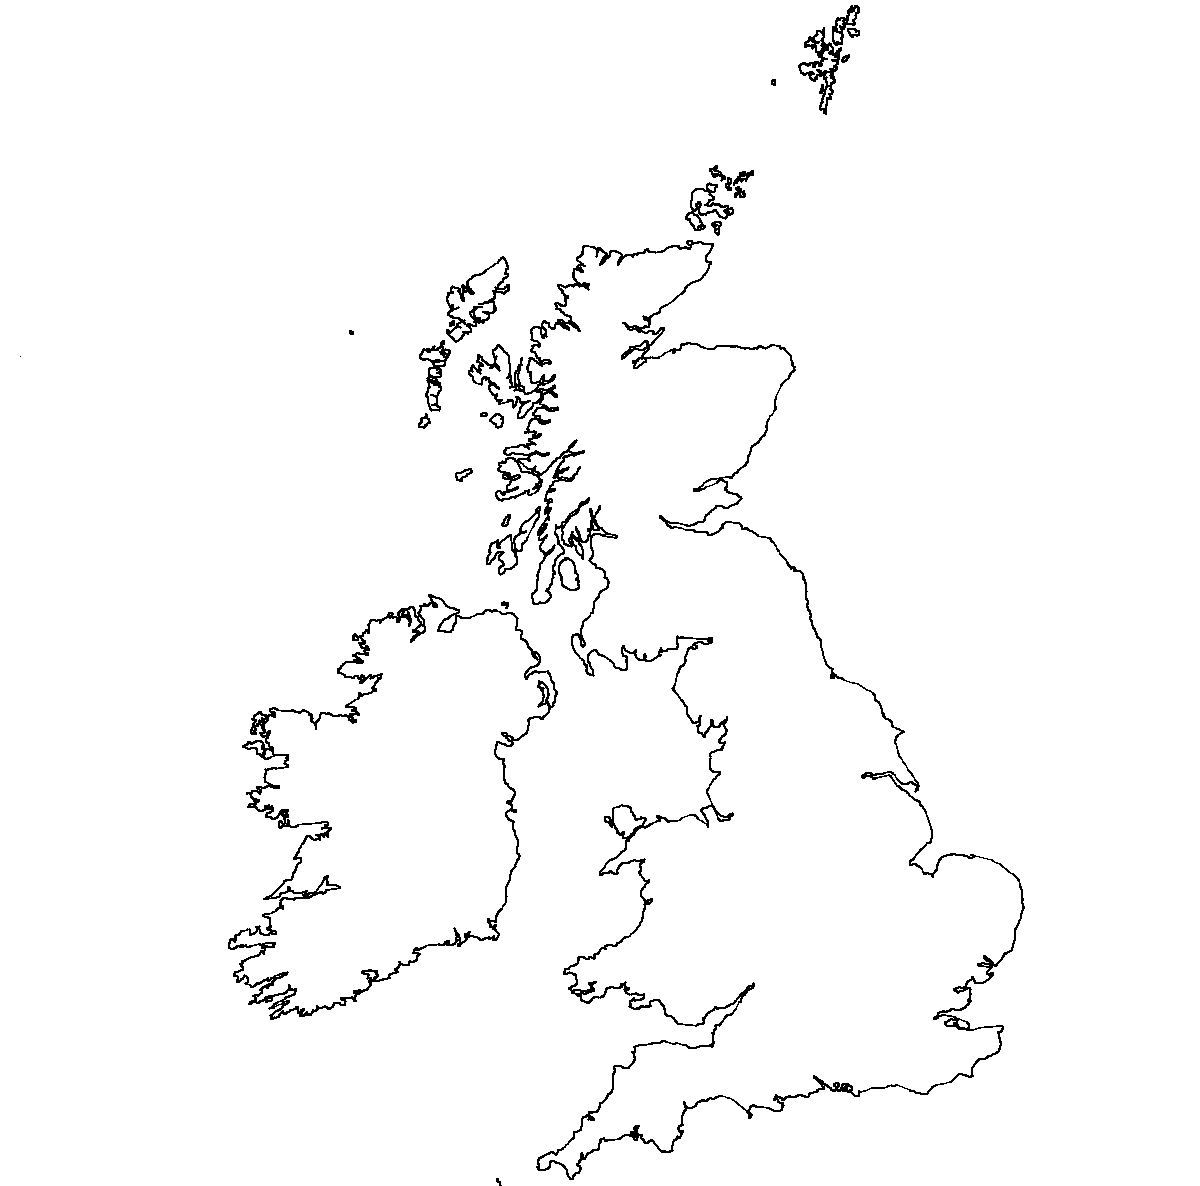
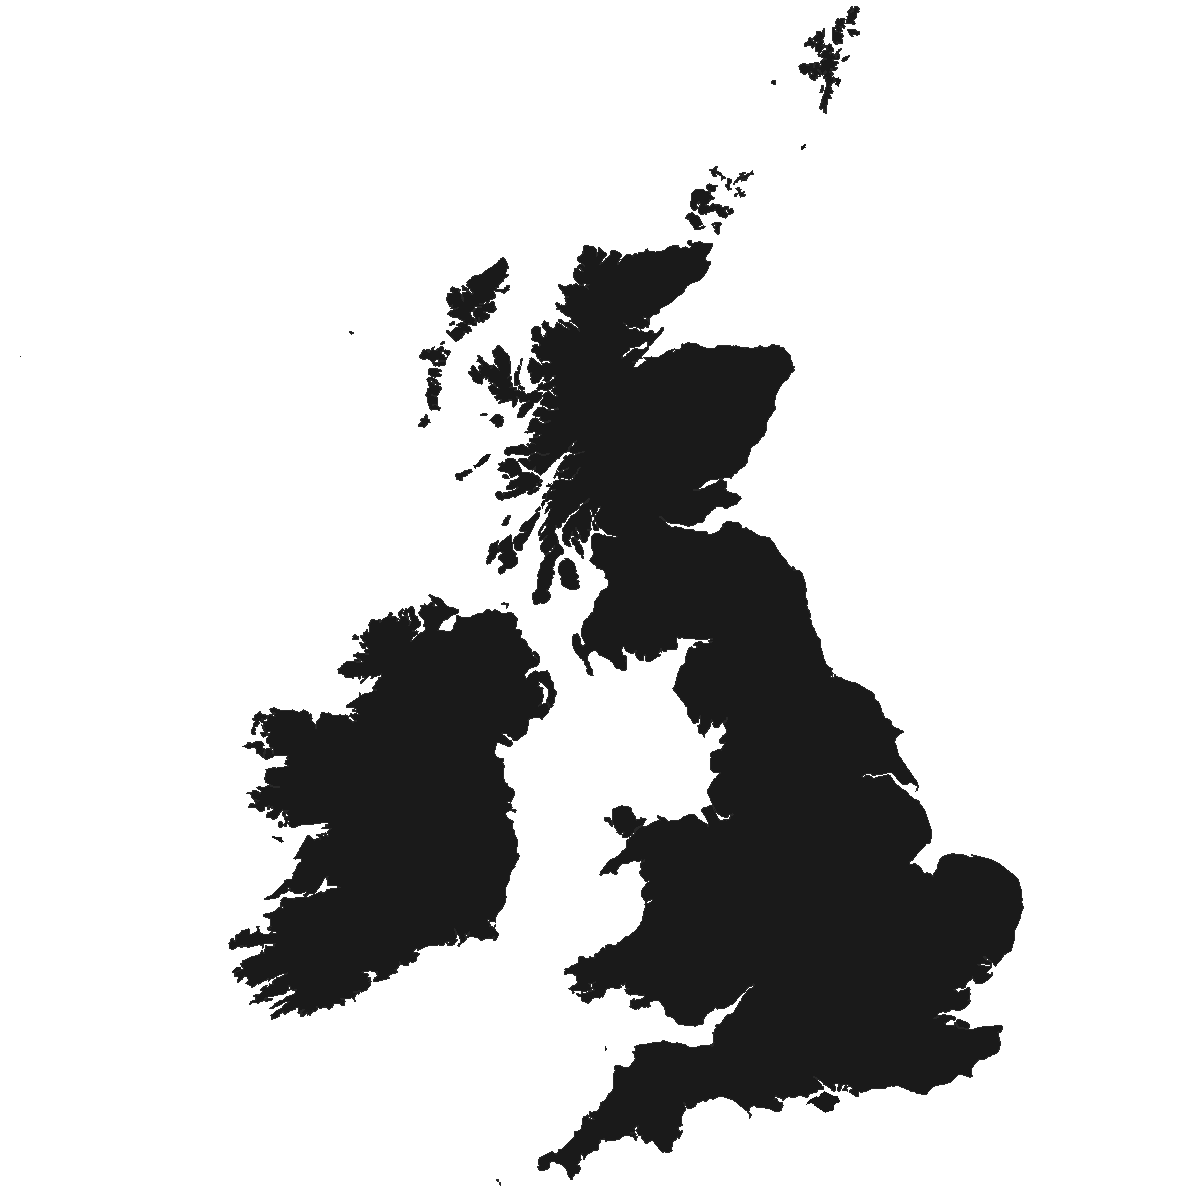
feat(mapgen): transparent sea + 10% grey land; keep GBR+IRL only; regenerate stretched53 assets

Changed region(s): [[0.185, 0.1248, 0.8633, 0.9983], [0.6475, 0.0, 0.74, 0.0936]]

diff --git a/scripts/make_wgs84_ukmap.py b/scripts/make_wgs84_ukmap.py
@@ -175,10 +175,18 @@ def make_affine(
 
 
 def render(
-    lines: List[List[Tuple[float, float]]], A: np.ndarray, w: int, h: int
+    lines: List[List[Tuple[float, float]]],
+    country_polys: List[List[List[Tuple[float, float]]]],
+    A: np.ndarray,
+    w: int,
+    h: int,
 ) -> Image.Image:
-    im = Image.new("RGB", (w, h), color=(255, 255, 255))
-    draw = ImageDraw.Draw(im)
+    # Transparent background RGBA
+    base = Image.new("RGBA", (w, h), color=(0, 0, 0, 0))
+
+    # Build land mask from country polygons (GBR + IRL)
+    mask = Image.new("L", (w, h), color=0)
+    mdraw = ImageDraw.Draw(mask)
 
     def project(p: Tuple[float, float]) -> Tuple[int, int]:
         lon, lat = p
@@ -186,12 +194,31 @@ def render(
         y = A[1, 0] * lon + A[1, 1] * lat + A[1, 2]
         return int(round(x)), int(round(y))
 
-    for seg in lines:
-        if len(seg) < 2:
+    for rings in country_polys:
+        if not rings:
             continue
-        pts = [project(p) for p in seg]
-        draw.line(pts, fill=(0, 0, 0), width=2)
-    return im
+        # Outer ring filled
+        outer = [project(p) for p in rings[0]]
+        mdraw.polygon(outer, fill=255)
+        # Holes (inner rings) carved out
+        for hole in rings[1:]:
+            hole_pts = [project(p) for p in hole]
+            mdraw.polygon(hole_pts, fill=0)
+
+    # Composite 10% grey land onto transparent sea
+    land = Image.new("RGBA", (w, h), color=(26, 26, 26, 255))
+    base.paste(land, (0, 0), mask)
+
+    # Optional coastline strokes for crisp edges
+    if lines:
+        draw = ImageDraw.Draw(base)
+        for seg in lines:
+            if len(seg) < 2:
+                continue
+            pts = [project(p) for p in seg]
+            draw.line(pts, fill=(40, 40, 40, 255), width=1)
+
+    return base
 
 
 def main() -> None:
@@ -202,7 +229,7 @@ def main() -> None:
     p.add_argument("--densify", type=int, default=10, help="Polyline densify factor")
     p.add_argument("--lon-west", type=float, default=-14.0)
     p.add_argument("--lon-east", type=float, default=4.5)
-    p.add_argument("--lat-south", type=float, default=49.9)
+    p.add_argument("--lat-south", type=float, default=49.8)
     p.add_argument("--lat-north", type=float, default=60.9)
     p.add_argument("--out-image", default="res/ukmap_wgs84.png")
     p.add_argument("--out-calib", default="res/uk_map_calibration_wgs84.json")
@@ -243,7 +270,7 @@ def main() -> None:
         args.lat_north,
         lat_scale=args.lat_scale,
     )
-    im = render(lines, A, w, h)
+    im = render(lines, uk_polys, A, w, h)
 
     # Save image
     Path(args.out_image).parent.mkdir(parents=True, exist_ok=True)
